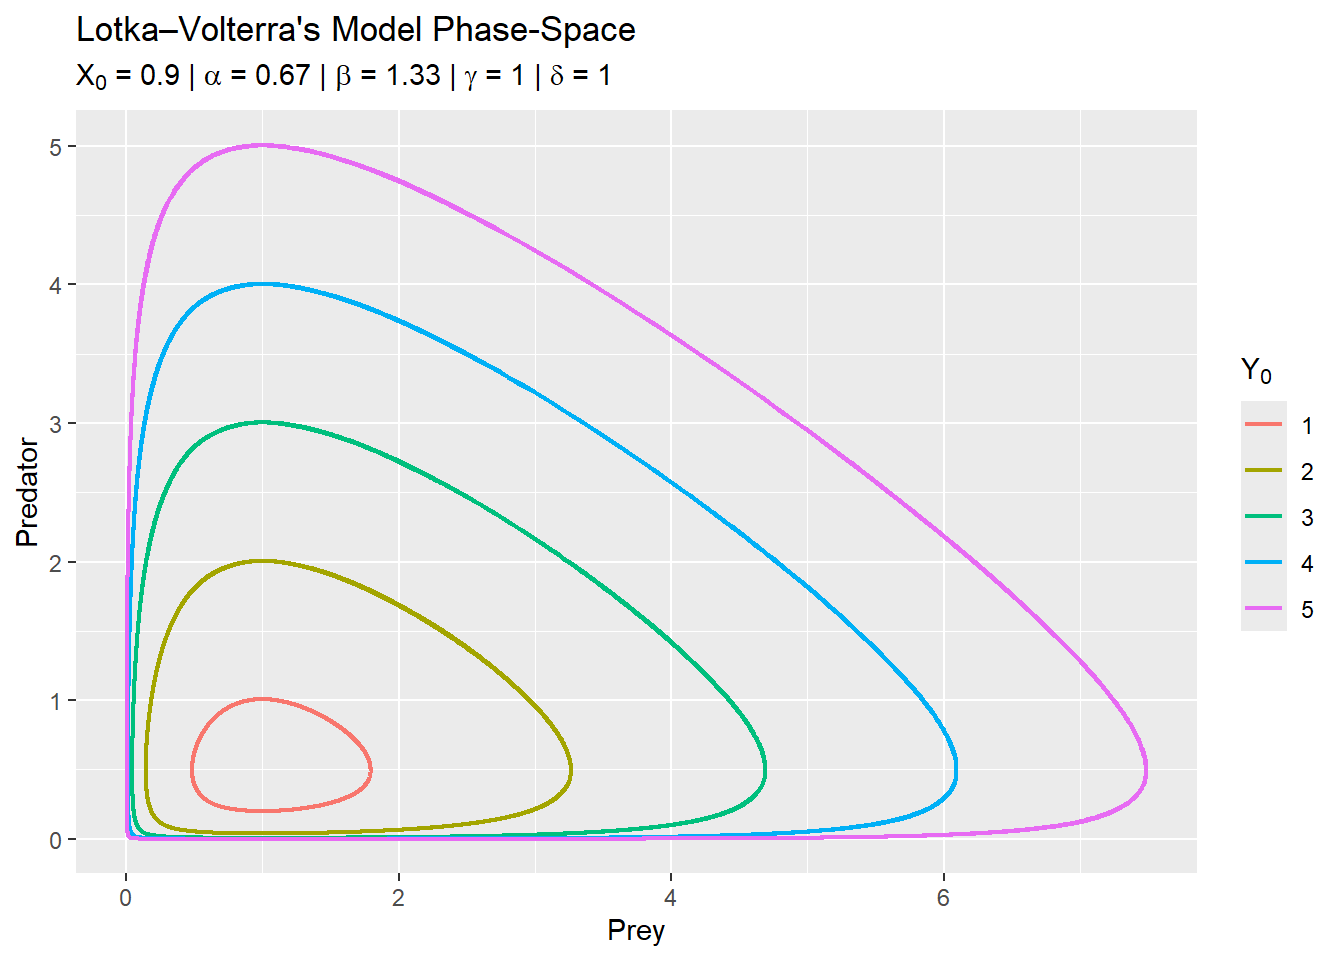
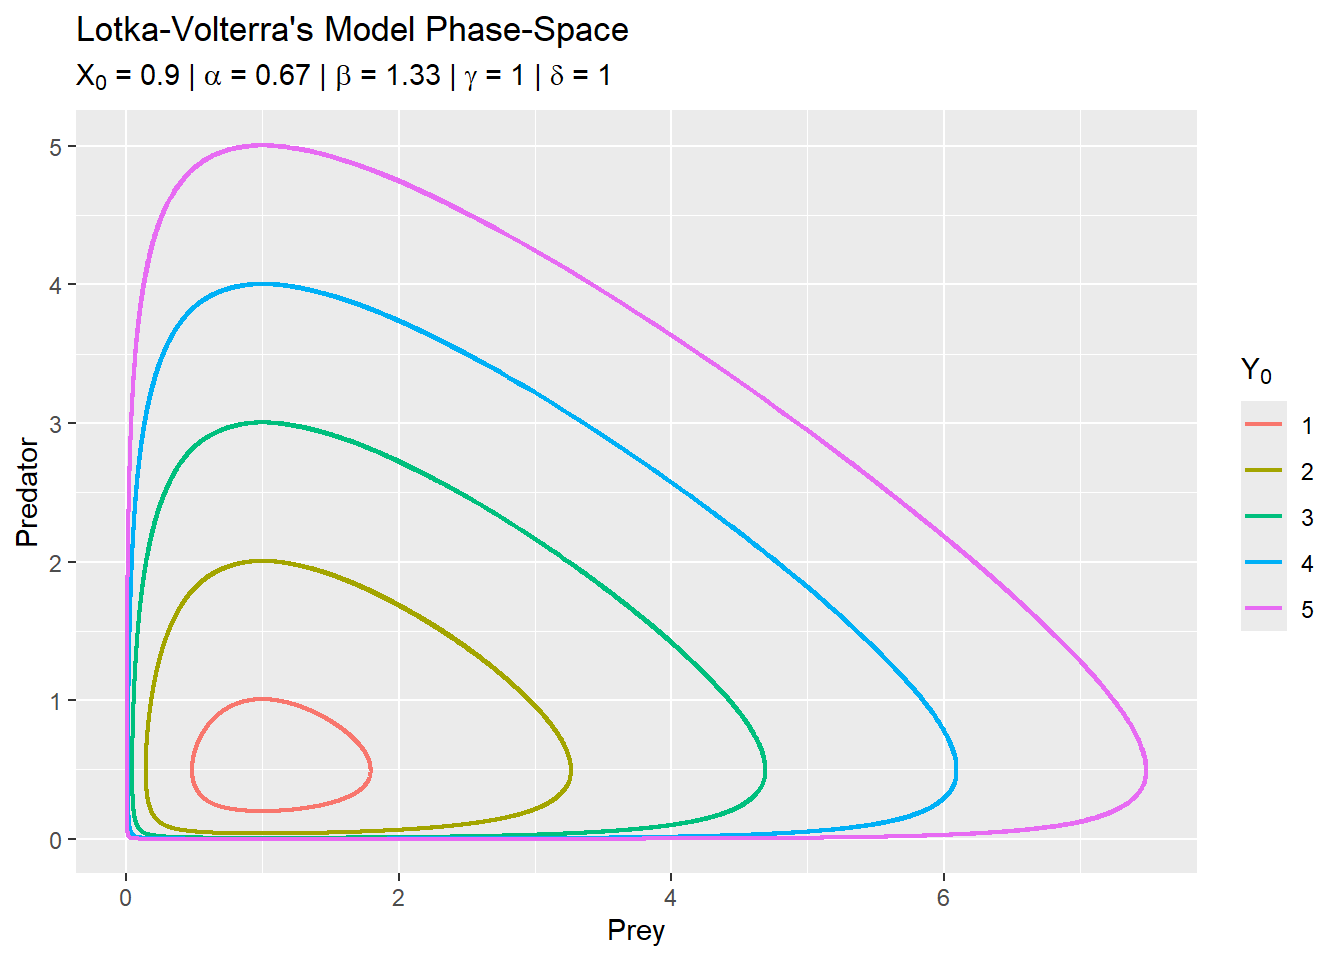
Fix GitHub link

Changed region(s): [[0.125, 0.0, 0.4688, 0.0625]]

diff --git a/docs/index.html b/docs/index.html
@@ -5,8 +5,8 @@
 <meta name="generator" content="quarto-1.5.40">
 <meta name="viewport" content="width=device-width, initial-scale=1.0, user-scalable=yes">
 <meta name="author" content="Daniel Vartanian">
-<meta name="dcterms.date" content="2024-09-19">
-<title>Lotka–Volterra’s Predator–Prey Model</title>
+<meta name="dcterms.date" content="2024-09-23">
+<title>Lotka-Volterra’s Predator–Prey Model</title>
 <style>
 code{white-space: pre-wrap;}
 span.smallcaps{font-variant: small-caps;}
@@ -137,7 +137,7 @@ window.Quarto = {
           <div class="collapse navbar-collapse" id="navbarCollapse">
             <ul class="navbar-nav navbar-nav-scroll me-auto">
 <li class="nav-item compact">
-    <a class="nav-link" href="https://github.com/danielvartan/lotka%E2%80%93volterra"> <i class="bi bi-github" role="img" aria-label="GitHub">
+    <a class="nav-link" href="https://github.com/danielvartan/lotka-volterra"> <i class="bi bi-github" role="img" aria-label="GitHub">
 </i> 
 <span class="menu-text"></span></a>
   </li>  
@@ -152,7 +152,7 @@ window.Quarto = {
     
 <!-- main -->
 <main class="content" id="quarto-document-content"><header id="title-block-header" class="quarto-title-block default"><div class="quarto-title">
-<h1 class="title">Lotka–Volterra’s Predator–Prey Model</h1>
+<h1 class="title">Lotka-Volterra’s Predator–Prey Model</h1>
 </div>
 
 
@@ -169,7 +169,7 @@ window.Quarto = {
     <div>
     <div class="quarto-title-meta-heading">Published</div>
     <div class="quarto-title-meta-contents">
-      <p class="date">2024-09-19</p>
+      <p class="date">2024-09-23</p>
     </div>
   </div>
   
@@ -180,7 +180,7 @@ window.Quarto = {
 
 </header><!-- badges: start --><p><a href="https://www.repostatus.org/#inactive"><img src="https://www.repostatus.org/badges/latest/inactive.svg" class="img-fluid" alt="Project Status: Inactive – The project has reached a stable, usable state but is no longer being actively developed; support/maintenance will be provided as time allows."></a> <a href="https://choosealicense.com/licenses/mit/"><img src="https://img.shields.io/badge/license-MIT-green.png" class="img-fluid" alt="License: MIT"></a> <!-- badges: end --></p>
 <section id="overview" class="level2"><h2 class="anchored" data-anchor-id="overview">Overview</h2>
-<p>This document focuses on demonstrating the <a href="https://en.wikipedia.org/wiki/Lotka%E2%80%93Volterra_equations">Lotka–Volterra’s model</a>, originally developed by Alfred J. Lotka <span class="citation" data-cites="lotka1925">(<a href="#ref-lotka1925" role="doc-biblioref">1925</a>)</span> and Vito Volterra <span class="citation" data-cites="volterra1926">(<a href="#ref-volterra1926" role="doc-biblioref">1926</a>)</span>, to describe the dynamics of biological systems where two species interact: one as a predator and the other as prey.</p>
+<p>This document focuses on demonstrating the <a href="https://en.wikipedia.org/wiki/Lotka%E2%80%93Volterra_equations">Lotka-Volterra’s model</a>, originally developed by Alfred J. Lotka <span class="citation" data-cites="lotka1925">(<a href="#ref-lotka1925" role="doc-biblioref">1925</a>)</span> and Vito Volterra <span class="citation" data-cites="volterra1926">(<a href="#ref-volterra1926" role="doc-biblioref">1926</a>)</span>, to describe the dynamics of biological systems where two species interact: one as a predator and the other as prey.</p>
 <p>The dynamics of the model are represented by the following set of first-order, nonlinear differential equations:</p>
 <p><span class="math display">\[
 \begin{aligned}
@@ -317,7 +317,7 @@ window.Quarto = {
 <span>      linewidth <span class="op">=</span> <span class="fl">0.75</span></span>
 <span>    <span class="op">)</span> <span class="op">+</span></span>
 <span>    <span class="fu">ggplot2</span><span class="fu">::</span><span class="fu"><a href="https://ggplot2.tidyverse.org/reference/labs.html">labs</a></span><span class="op">(</span></span>
-<span>      title <span class="op">=</span> <span class="st">"Lotka–Volterra's Model Population Dynamics"</span>,</span>
+<span>      title <span class="op">=</span> <span class="st">"Lotka-Volterra's Model Population Dynamics"</span>,</span>
 <span>      subtitle <span class="op">=</span> <span class="fu">latex2exp</span><span class="fu">::</span><span class="fu"><a href="https://www.stefanom.io/latex2exp/reference/TeX.html">TeX</a></span><span class="op">(</span></span>
 <span>        <span class="fu"><a href="https://rdrr.io/r/base/paste.html">paste0</a></span><span class="op">(</span></span>
 <span>          <span class="st">"$X_0$ = "</span>, <span class="va">initial_values</span><span class="op">$</span><span class="va">x</span>, <span class="st">" | "</span>,</span>
@@ -405,7 +405,7 @@ window.Quarto = {
 <span>  <span class="va">plot</span> <span class="op">&lt;-</span></span>
 <span>    <span class="va">plot</span> <span class="op">+</span></span>
 <span>    <span class="fu">ggplot2</span><span class="fu">::</span><span class="fu"><a href="https://ggplot2.tidyverse.org/reference/labs.html">labs</a></span><span class="op">(</span></span>
-<span>      title <span class="op">=</span> <span class="st">"Lotka–Volterra's Model Phase-Space"</span>,</span>
+<span>      title <span class="op">=</span> <span class="st">"Lotka-Volterra's Model Phase-Space"</span>,</span>
 <span>      subtitle <span class="op">=</span> <span class="fu">latex2exp</span><span class="fu">::</span><span class="fu"><a href="https://www.stefanom.io/latex2exp/reference/TeX.html">TeX</a></span><span class="op">(</span></span>
 <span>        <span class="fu"><a href="https://rdrr.io/r/base/paste.html">paste0</a></span><span class="op">(</span></span>
 <span>          <span class="st">"$X_0$ = "</span>, <span class="va">x</span>, <span class="st">" | "</span>,</span>
@@ -538,7 +538,7 @@ window.document.addEventListener("DOMContentLoaded", function (event) {
   }
     var localhostRegex = new RegExp(/^(?:http|https):\/\/localhost\:?[0-9]*\//);
     var mailtoRegex = new RegExp(/^mailto:/);
-      var filterRegex = new RegExp("https:\/\/danielvartan\.github\.io\/lotka–volterra\/");
+      var filterRegex = new RegExp("https:\/\/danielvartan\.github\.io\/lotka-volterra\/");
     var isInternal = (href) => {
         return filterRegex.test(href) || localhostRegex.test(href) || mailtoRegex.test(href);
     }
@@ -870,4 +870,4 @@ window.document.addEventListener("DOMContentLoaded", function (event) {
 
 
 
-<footer class="footer"><div class="nav-footer"><div class="nav-footer-center"><div class="toc-actions"><ul><li><a href="https://github.com/danielvartan/lotka–volterra/edit/main/index.qmd" class="toc-action"><i class="bi bi-github"></i>Edit this page</a></li><li><a href="https://github.com/danielvartan/lotka–volterra/issues/" class="toc-action"><i class="bi empty"></i>Report an issue</a></li></ul></div></div></div></footer></body></html>
+<footer class="footer"><div class="nav-footer"><div class="nav-footer-center"><div class="toc-actions"><ul><li><a href="https://github.com/danielvartan/lotka-volterra/edit/main/index.qmd" class="toc-action"><i class="bi bi-github"></i>Edit this page</a></li><li><a href="https://github.com/danielvartan/lotka-volterra/issues/" class="toc-action"><i class="bi empty"></i>Report an issue</a></li></ul></div></div></div></footer></body></html>

diff --git a/README.md b/README.md
@@ -1,4 +1,4 @@
-# lotka–volterra
+# lotka-volterra
 
 <!-- badges: start -->
 [![Project Status: Inactive – The project has reached a stable, usable state but is no longer being actively developed; support/maintenance will be provided as time allows.](https://www.repostatus.org/badges/latest/inactive.svg)](https://www.repostatus.org/#inactive)
@@ -7,6 +7,6 @@
 
 🐇🐐🦙🦆🦌🐿🐔🐠🦊🐅🐺🦁🦅🐍🐊🔁⚖🔗🌍
 
-This repository contains a demonstration of the [Lotka–Volterra's model](https://en.wikipedia.org/wiki/Lotka%E2%80%93Volterra_equations), originally developed by Alfred J. Lotka ([1925](http://archive.org/details/elementsofphysic017171mbp)) and Vito Volterra ([1926](https://www.nature.com/articles/118558a0)), to describe the dynamics of biological systems where two species interact: one as a predator and the other as prey.
+This repository contains a demonstration of the [Lotka-Volterra's model](https://en.wikipedia.org/wiki/Lotka%E2%80%93Volterra_equations), originally developed by Alfred J. Lotka ([1925](http://archive.org/details/elementsofphysic017171mbp)) and Vito Volterra ([1926](https://www.nature.com/articles/118558a0)), to describe the dynamics of biological systems where two species interact: one as a predator and the other as prey.
 
-The report is available [here](https://danielvartan.github.io/lotka–volterra/).
+The report is available [here](https://danielvartan.github.io/lotka-volterra/).
